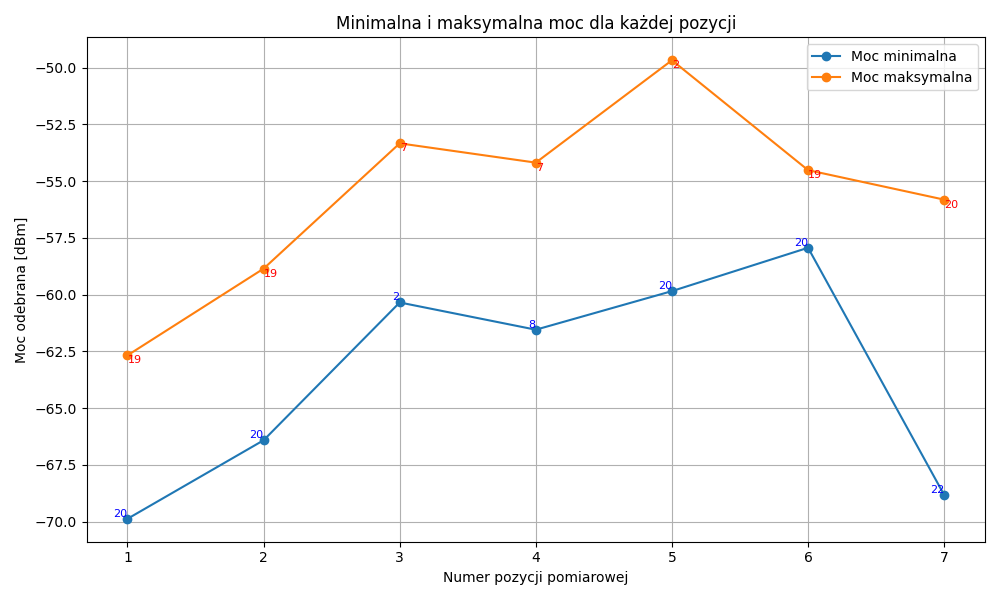
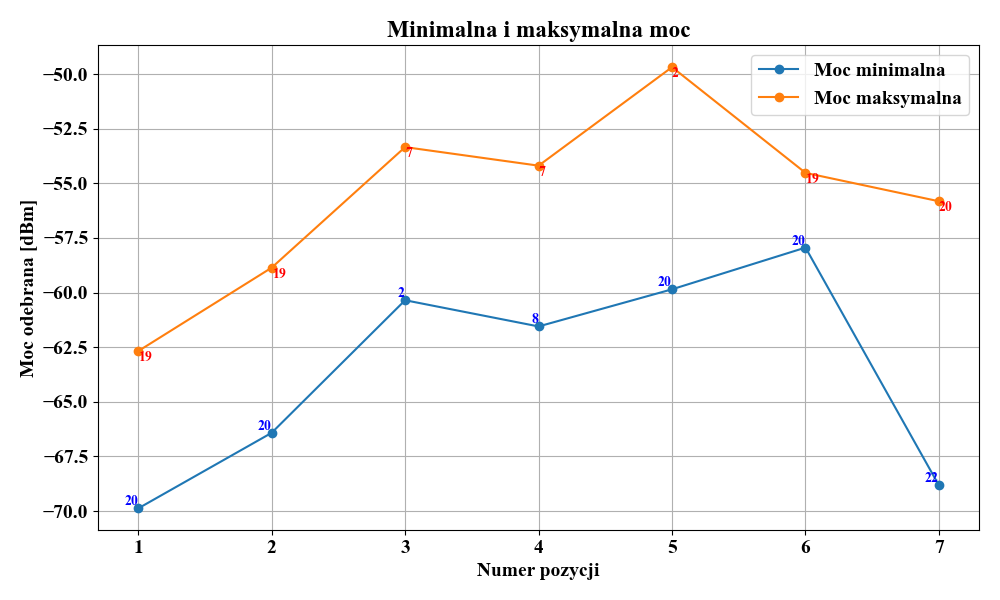
minmax

diff --git a/Suwnica programy i wykresy/minmax.py b/Suwnica programy i wykresy/minmax.py
@@ -1,65 +1,110 @@
 import pandas as pd
 import matplotlib.pyplot as plt
 import os
+from matplotlib import rcParams
 
-# Ścieżka folderu do zapisu wykresów
-output_folder = "/Users/pawelplaczkiewicz/Documents/Dokumenty – Mac mini (Paweł)/GitHub/Python_RIS/Suwnica/wykresy/112_140"  # <- ZMIEŃ TĘ ŚCIEŻKĘ
+# Lista plików wejściowych i odpowiadających folderów wyjściowych
+file_list = [
+    "/Users/pawelplaczkiewicz/Documents/Dokumenty – Mac mini (Paweł)/GitHub/Python_RIS/DANE_Z_POMIAROW/V2X_INFOCOM2024/suwnica_LAB_28_05_25/28_05_25_dookolna.csv",
+    "/Users/pawelplaczkiewicz/Documents/Dokumenty – Mac mini (Paweł)/GitHub/Python_RIS/DANE_Z_POMIAROW/V2X_INFOCOM2024/suwnica_LAB_28_05_25/28_05_25_suwnica_112_90cm.csv",
+    "/Users/pawelplaczkiewicz/Documents/Dokumenty – Mac mini (Paweł)/GitHub/Python_RIS/DANE_Z_POMIAROW/V2X_INFOCOM2024/suwnica_LAB_28_05_25/28_05_25_suwnica_112cm_140cm.csv",
+    "/Users/pawelplaczkiewicz/Documents/Dokumenty – Mac mini (Paweł)/GitHub/Python_RIS/DANE_Z_POMIAROW/V2X_INFOCOM2024/suwnica_LAB_28_05_25/28_05_25_swunica_112_40cm.csv",
+    "/Users/pawelplaczkiewicz/Documents/Dokumenty – Mac mini (Paweł)/GitHub/Python_RIS/DANE_Z_POMIAROW/V2X_INFOCOM2024/suwnica_LAB_28_05_25/28_05_suwnica_bez_skrzynii.csv",
+]
+output_folders = [
+    "/Users/pawelplaczkiewicz/Documents/Dokumenty – Mac mini (Paweł)/GitHub/Python_RIS/Suwnica programy i wykresy/wykresy/dookolna",
+    "/Users/pawelplaczkiewicz/Documents/Dokumenty – Mac mini (Paweł)/GitHub/Python_RIS/Suwnica programy i wykresy/wykresy/112_90",
+    "/Users/pawelplaczkiewicz/Documents/Dokumenty – Mac mini (Paweł)/GitHub/Python_RIS/Suwnica programy i wykresy/wykresy/112_140",
+    "/Users/pawelplaczkiewicz/Documents/Dokumenty – Mac mini (Paweł)/GitHub/Python_RIS/Suwnica programy i wykresy/wykresy/112_40",
+    "/Users/pawelplaczkiewicz/Documents/Dokumenty – Mac mini (Paweł)/GitHub/Python_RIS/Suwnica programy i wykresy/wykresy/bez_skrzynii",
+]
 
-# Wczytaj dane z pliku CSV
-filename = "/Users/pawelplaczkiewicz/Documents/Dokumenty – Mac mini (Paweł)/GitHub/Python_RIS/DANE_Z_POMIAROW/V2X_INFOCOM2024/suwnica_LAB_28_05_25/28_05_25_suwnica_112cm_140cm.csv"
-df = pd.read_csv(
-    filename, sep=";", header=None, names=["Pattern", "Position", "Frequency", "Power"]
-)
 
-# Upewnij się, że folder docelowy istnieje
-os.makedirs(output_folder, exist_ok=True)
+# Parametry czcionki
+font_properties = {
+    "font.family": "Times New Roman",
+    "font.size": 14,
+    "font.weight": "bold",
+}
+rcParams.update(font_properties)
 
-# Unikalne pozycje pomiarowe
-positions = sorted(df["Position"].unique())
+# Przetwarzanie każdego pliku
+for filename, output_folder in zip(file_list, output_folders):
+    # Upewnij się, że folder docelowy istnieje
+    os.makedirs(output_folder, exist_ok=True)
 
-# Listy do wykresu
-min_power = []
-max_power = []
-min_patterns = []
-max_patterns = []
+    # Wczytaj dane
+    df = pd.read_csv(
+        filename,
+        sep=";",
+        header=None,
+        names=["Pattern", "Position", "Frequency", "Power"],
+    )
 
-# Znajdź min i max dla każdej pozycji
-for pos in positions:
-    subset = df[df["Position"] == pos]
+    # Unikalne pozycje pomiarowe
+    positions = sorted(df["Position"].unique())
 
-    # Wiersz z najmniejszą mocą
-    min_row = subset.loc[subset["Power"].idxmin()]
-    min_power.append(min_row["Power"])
-    min_patterns.append(int(min_row["Pattern"]))
+    # Listy do wykresu
+    min_power = []
+    max_power = []
+    min_patterns = []
+    max_patterns = []
 
-    # Wiersz z największą mocą
-    max_row = subset.loc[subset["Power"].idxmax()]
-    max_power.append(max_row["Power"])
-    max_patterns.append(int(max_row["Pattern"]))
+    # Znajdź min i max dla każdej pozycji
+    for pos in positions:
+        subset = df[df["Position"] == pos]
 
-# Tworzenie wykresu
-plt.figure(figsize=(10, 6))
-plt.plot(positions, min_power, marker="o", label="Moc minimalna")
-plt.plot(positions, max_power, marker="o", label="Moc maksymalna")
+        min_row = subset.loc[subset["Power"].idxmin()]
+        min_power.append(min_row["Power"])
+        min_patterns.append(int(min_row["Pattern"]))
 
-# Dodaj opisy z numerami wzorców
-for x, y, p in zip(positions, min_power, min_patterns):
-    plt.text(x, y, str(p), ha="right", va="bottom", fontsize=8, color="blue")
+        max_row = subset.loc[subset["Power"].idxmax()]
+        max_power.append(max_row["Power"])
+        max_patterns.append(int(max_row["Pattern"]))
 
-for x, y, p in zip(positions, max_power, max_patterns):
-    plt.text(x, y, str(p), ha="left", va="top", fontsize=8, color="red")
+    # Tworzenie wykresu
+    plt.figure(figsize=(10, 6))
+    plt.plot(positions, min_power, marker="o", label="Moc minimalna")
+    plt.plot(positions, max_power, marker="o", label="Moc maksymalna")
 
-# Oznaczenia i zapis
-plt.title("Minimalna i maksymalna moc dla każdej pozycji")
-plt.xlabel("Numer pozycji pomiarowej")
-plt.ylabel("Moc odebrana [dBm]")
-plt.grid(True)
-plt.legend()
-plt.tight_layout()
+    # Opisy punktów
+    for x, y, p in zip(positions, min_power, min_patterns):
+        plt.text(
+            x,
+            y,
+            str(p),
+            ha="right",
+            va="bottom",
+            fontsize=10,
+            fontweight="bold",
+            color="blue",
+            fontname="Times New Roman",
+        )
 
-# Zapis wykresu
-output_path = os.path.join(output_folder, "min_max_wykres.png")
-plt.savefig(output_path)
-plt.close()
+    for x, y, p in zip(positions, max_power, max_patterns):
+        plt.text(
+            x,
+            y,
+            str(p),
+            ha="left",
+            va="top",
+            fontsize=10,
+            fontweight="bold",
+            color="red",
+            fontname="Times New Roman",
+        )
 
-print(f"Wykres zapisano jako: {output_path}")
+    # Oznaczenia i zapis
+    plt.title("Minimalna i maksymalna moc", fontweight="bold")
+    plt.xlabel("Numer pozycji", fontweight="bold")
+    plt.ylabel("Moc odebrana [dBm]", fontweight="bold")
+    plt.grid(True)
+    plt.legend()
+    plt.tight_layout()
+
+    # Zapis wykresu
+    output_path = os.path.join(output_folder, "min_max_wykres.png")
+    plt.savefig(output_path)
+    plt.close()
+
+    print(f"Wykres zapisano jako: {output_path}")

diff --git a/Suwnica programy i wykresy/minmaxcombo.py b/Suwnica programy i wykresy/minmaxcombo.py
@@ -1,0 +1,95 @@
+import pandas as pd
+import matplotlib.pyplot as plt
+import os
+from matplotlib import rcParams
+
+# Czcionka: Times New Roman, bold
+rcParams.update(
+    {"font.family": "Times New Roman", "font.size": 14, "font.weight": "bold"}
+)
+
+# Lista plików CSV
+file_list = [
+    "/Users/pawelplaczkiewicz/Documents/Dokumenty – Mac mini (Paweł)/GitHub/Python_RIS/DANE_Z_POMIAROW/V2X_INFOCOM2024/suwnica_LAB_28_05_25/28_05_25_dookolna.csv",
+    "/Users/pawelplaczkiewicz/Documents/Dokumenty – Mac mini (Paweł)/GitHub/Python_RIS/DANE_Z_POMIAROW/V2X_INFOCOM2024/suwnica_LAB_28_05_25/28_05_25_suwnica_112cm_140cm.csv",
+    "/Users/pawelplaczkiewicz/Documents/Dokumenty – Mac mini (Paweł)/GitHub/Python_RIS/DANE_Z_POMIAROW/V2X_INFOCOM2024/suwnica_LAB_28_05_25/28_05_25_suwnica_112_90cm.csv",
+    "/Users/pawelplaczkiewicz/Documents/Dokumenty – Mac mini (Paweł)/GitHub/Python_RIS/DANE_Z_POMIAROW/V2X_INFOCOM2024/suwnica_LAB_28_05_25/28_05_25_swunica_112_40cm.csv",
+]
+
+# Tytuły subplotów
+subplot_titles = ["TX w P3 (antena dookólna)", "TX w P1", "TX w P2", "TX w P3"]
+
+# Folder zapisu
+output_folder = "/Users/pawelplaczkiewicz/Documents/Dokumenty – Mac mini (Paweł)/GitHub/Python_RIS/Suwnica programy i wykresy/wykresy"
+os.makedirs(output_folder, exist_ok=True)
+
+# Przygotowanie figury
+fig, axs = plt.subplots(2, 2, figsize=(14, 10))
+# fig.suptitle("Minimalna i maksymalna", fontsize=20, fontweight="bold")
+
+# Iteracja po plikach i osiach
+for idx, (filename, title) in enumerate(zip(file_list, subplot_titles)):
+    df = pd.read_csv(
+        filename,
+        sep=";",
+        header=None,
+        names=["Pattern", "Position", "Frequency", "Power"],
+    )
+    positions = sorted(df["Position"].unique())
+
+    min_power = []
+    max_power = []
+    min_patterns = []
+    max_patterns = []
+
+    for pos in positions:
+        subset = df[df["Position"] == pos]
+        min_row = subset.loc[subset["Power"].idxmin()]
+        max_row = subset.loc[subset["Power"].idxmax()]
+        min_power.append(min_row["Power"])
+        max_power.append(max_row["Power"])
+        min_patterns.append(int(min_row["Pattern"]))
+        max_patterns.append(int(max_row["Pattern"]))
+
+    ax = axs[idx // 2][idx % 2]
+    ax.plot(positions, min_power, marker="o", label="Moc minimalna")
+    ax.plot(positions, max_power, marker="o", label="Moc maksymalna")
+
+    for x, y, p in zip(positions, min_power, min_patterns):
+        ax.text(
+            x,
+            y,
+            str(p),
+            ha="right",
+            va="bottom",
+            fontsize=14,
+            fontweight="bold",
+            color="blue",
+            fontname="Times New Roman",
+        )
+
+    for x, y, p in zip(positions, max_power, max_patterns):
+        ax.text(
+            x,
+            y,
+            str(p),
+            ha="left",
+            va="top",
+            fontsize=14,
+            fontweight="bold",
+            color="red",
+            fontname="Times New Roman",
+        )
+
+    ax.set_title(title, fontweight="bold")
+    ax.set_xlabel("Numer pozycji", fontweight="bold")
+    ax.set_ylabel("Moc odebrana [dBm]", fontweight="bold")
+    ax.grid(True)
+    ax.legend()
+
+plt.tight_layout(rect=[0, 0.03, 1, 0.95])  # Dla miejsca na tytuł główny
+output_path = os.path.join(output_folder, "min_max_wykres_zbiorczy.png")
+plt.savefig(output_path)
+plt.close()
+
+print(f"Wykres zbiorczy zapisano jako: {output_path}")
